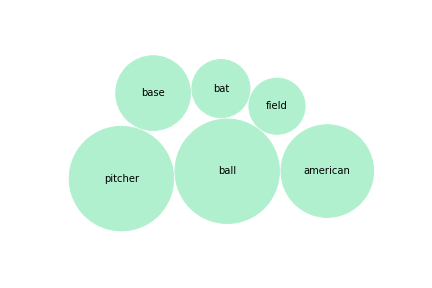
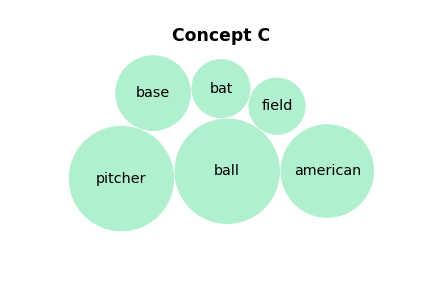
Update instructions.

diff --git a/samples/three_images/www/instructions/instructions_word_bubbles.md b/samples/three_images/www/instructions/instructions_word_bubbles.md
@@ -1,12 +1,14 @@
-## Word Bubbles
+# Word Bubbles
 
 In this task we use _word bubbles_. A word bubble is a collection of words used to describe a concept --
 the larger the size of the bubble, the more important the word is for the described concept.
 For example, below you can see a word bubble describing Italian cuisine.
 
-![italian cuisine word bubble]($$www$$/instructions/italian_cuisine.png)
+<p float="left" margin-left=200px >
+  <img src="$$www$$/instructions/italian_cuisine.png" width="350" />
+</p>
 
-### Is A more similar to B or C?
+## Is A more similar to B or C?
 
 In this experiment, we ask you to compare word bubbles. That is, we ask you to indicate how similar
 the concepts represented in different word bubbles are. For example, we would show you the three
@@ -15,7 +17,7 @@ the sport of baseball (Concept C). We would then ask you to indicate whether, ba
 word bubbles, Concept A is more similar to Concept B or to Concept C.
 
 <p float="left" margin-left=200px >
-  <img src="$$www$$/instructions/italian_cuisine.png" width="350" />
+  <img src="$$www$$/instructions/italian_cuisine_with_title.png" width="350" />
 </p>
 
 <p float="left">
@@ -48,7 +50,7 @@ Based on the example above, we can judge that Concept A, representing Italian cu
 In this example, we told you what the concepts represent. However, in the follow-up task we will not make explicit what the compared concepts are; we will refer to them only as concepts A, B, and C. Furthermore, the distinction among the word bubble plots may not be as straightforward as it is in the example. So, you must read the word bubbles carefully and exercise your judgement. Below, you can find another example.
 
 <p float="left" margin-left=200px >
-  <img src="$$www$$/instructions/italian_cuisine.png" width="350" />
+  <img src="$$www$$/instructions/italian_cuisine_with_title.png" width="350" />
 </p>
 
 <p float="left">

diff --git a/samples/three_images/www/instructions/instructions_morality.md b/samples/three_images/www/instructions/instructions_morality.md
@@ -1,8 +1,10 @@
-## Morality
+# Morality
 
 Help us understand how people express morality in everyday situations!
 For example, the bubble cloud below expresses the concept of **fairness**.
 Similar to the cuisine example above, we will ask you to compare word bubbles
 that describe different ways of expressing the same moral concept.
 
-![Fairness word bubble]($$www$$/instructions/fairness_example.png)
+<p float="left" margin-left=200px >
+  <img src="$$www$$/instructions/fairness_example.png" width="400" />
+</p>
